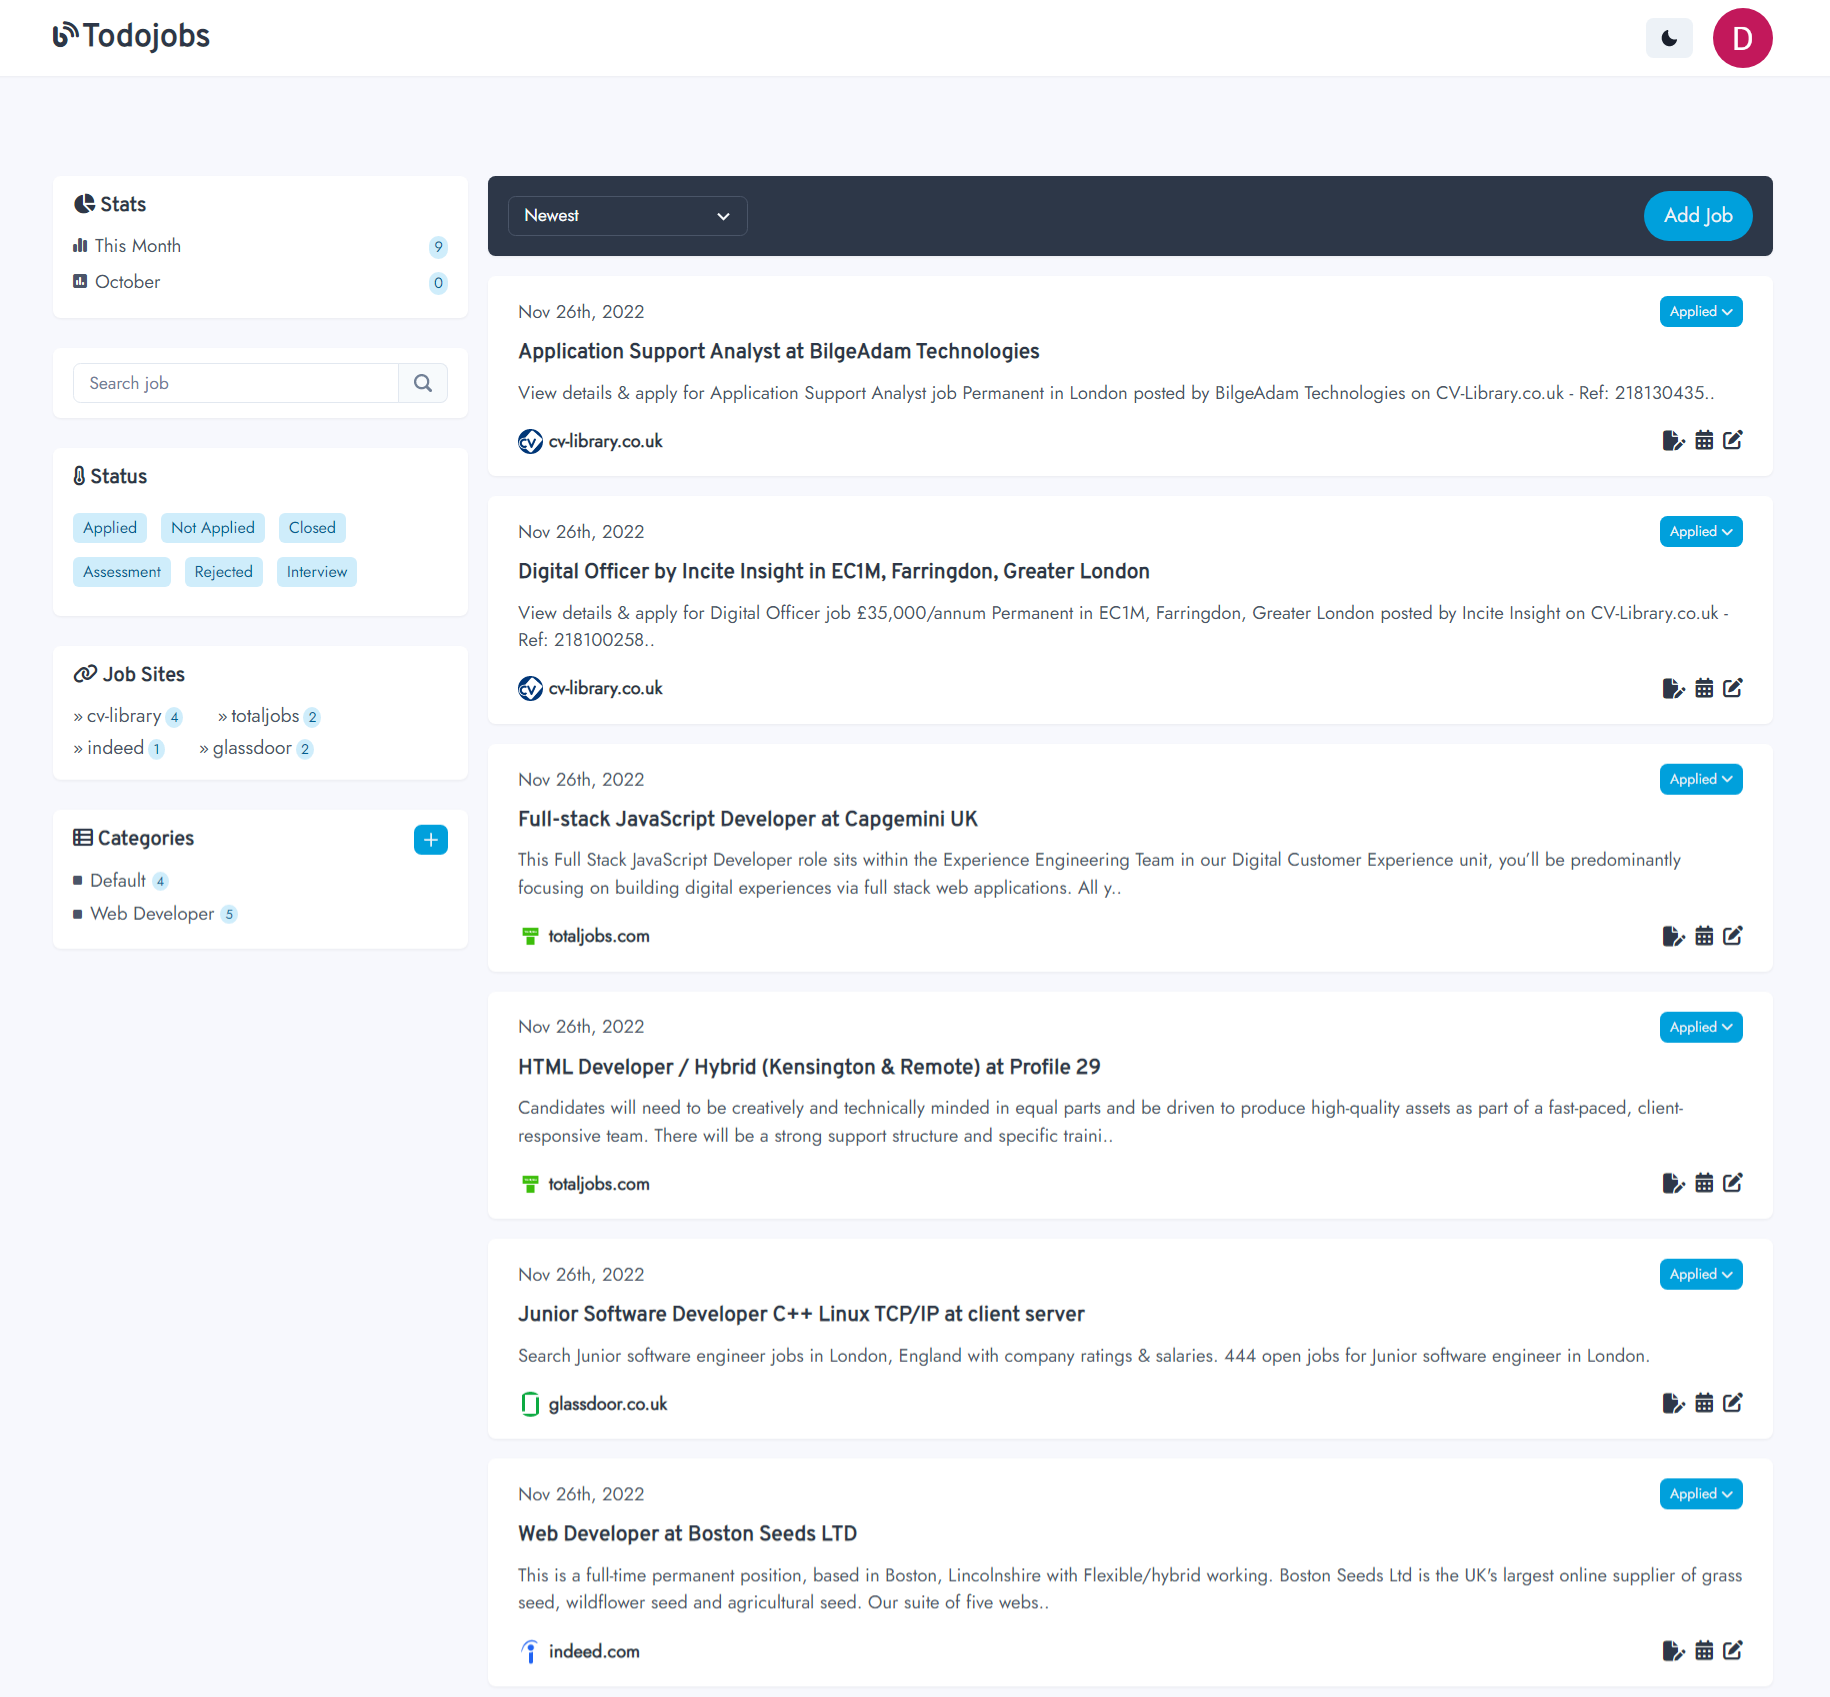
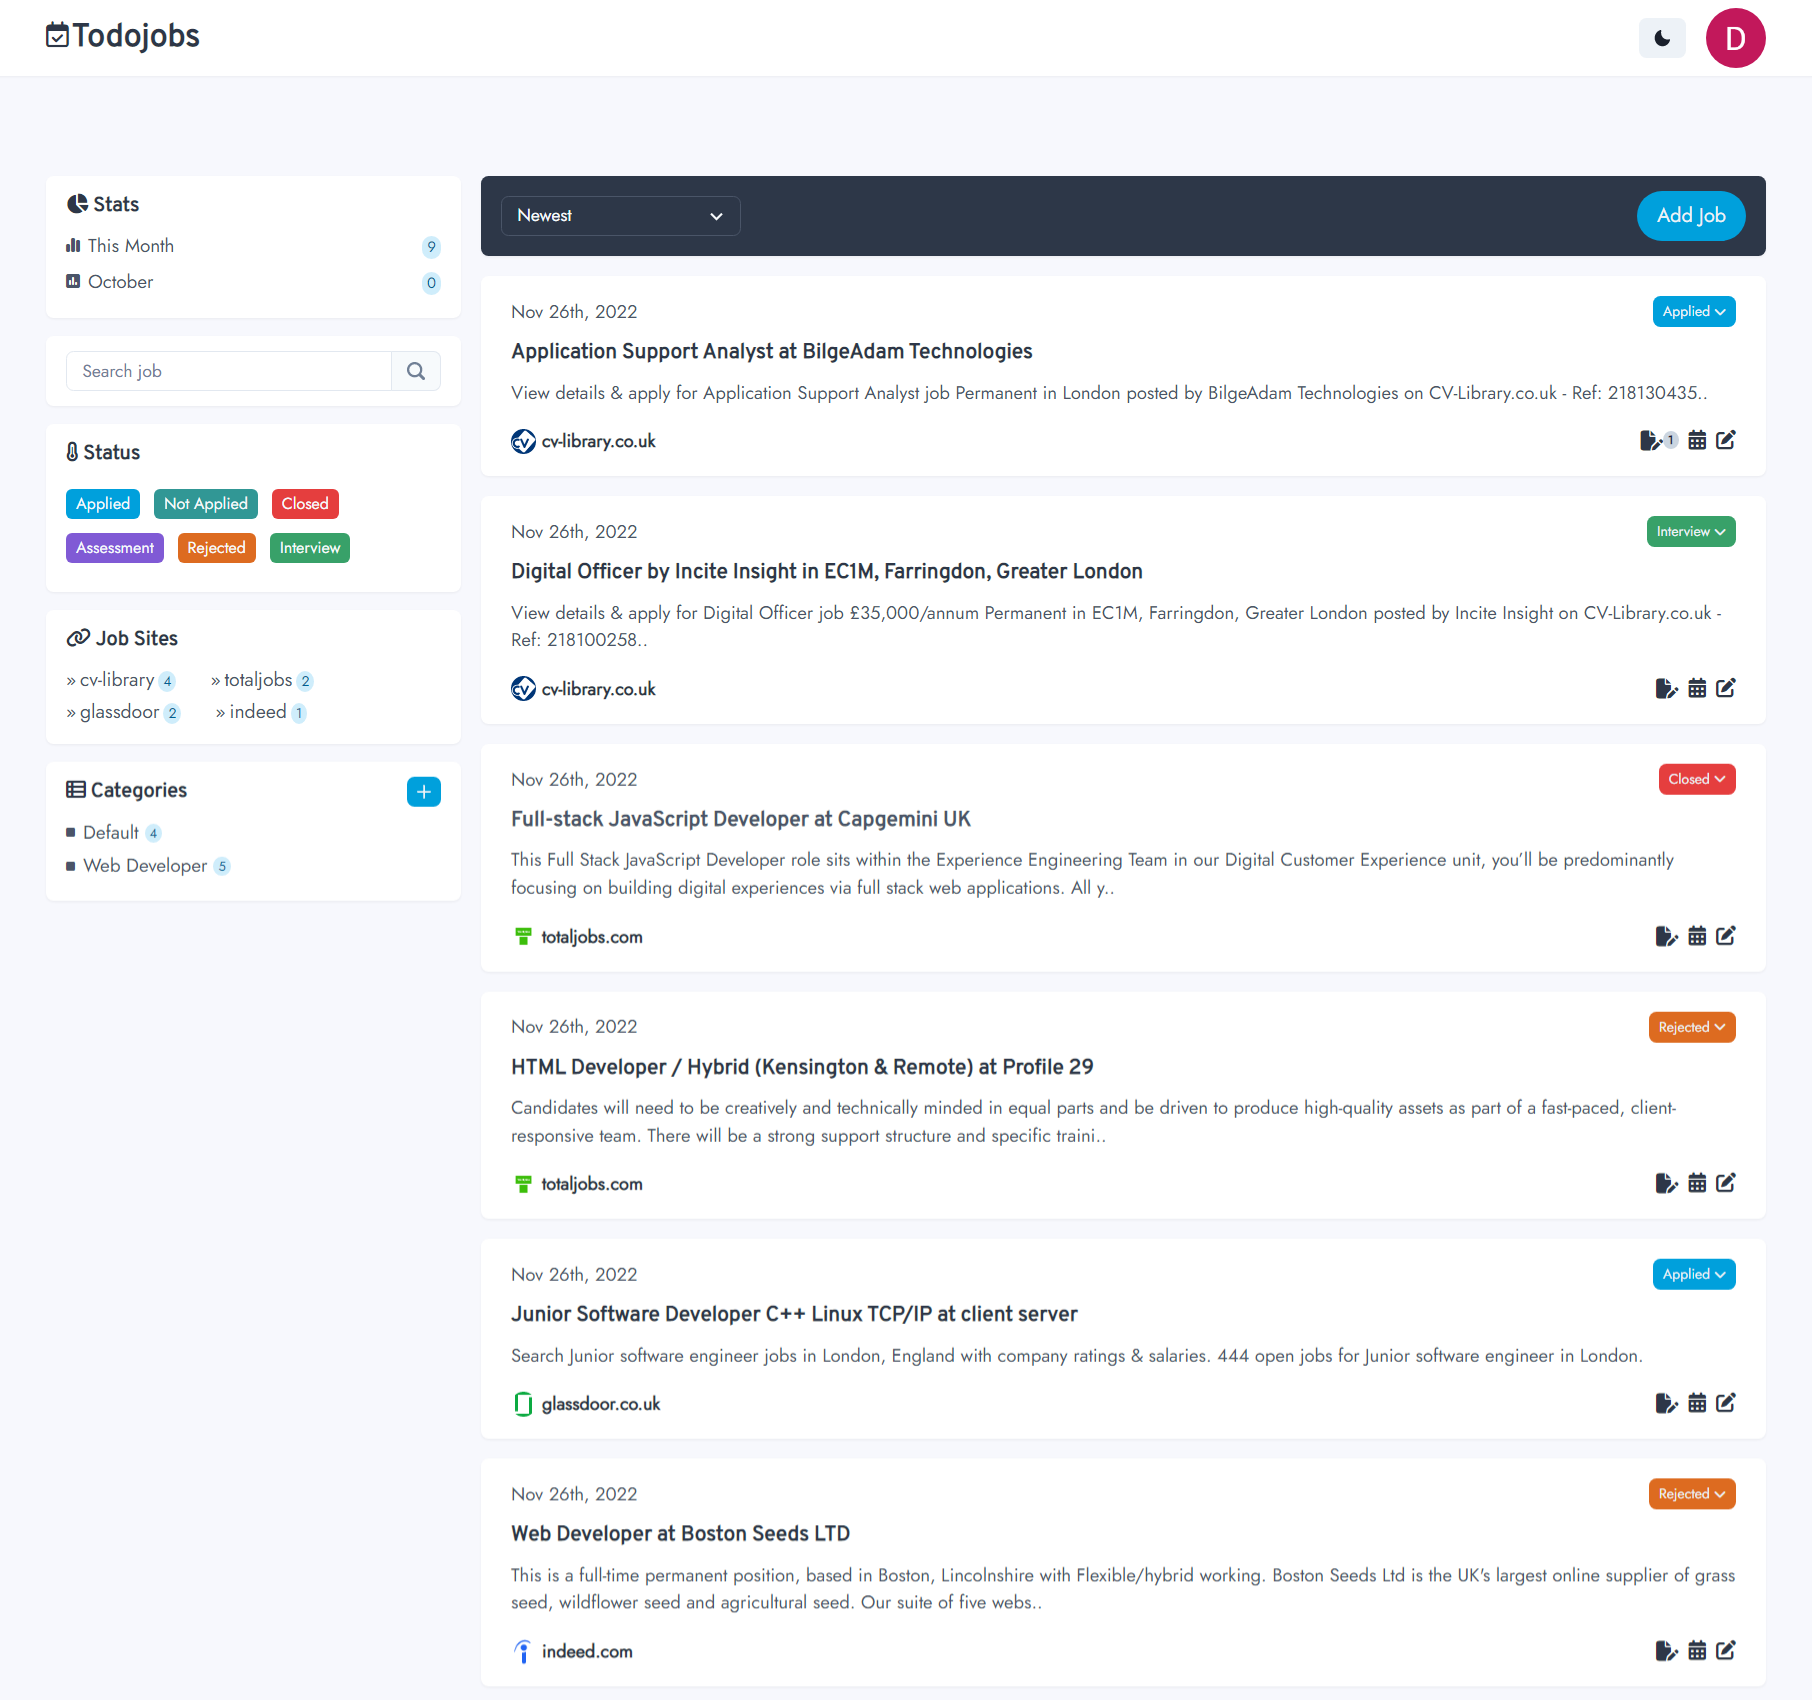
update landing page hero img

diff --git a/client/src/components/Status.tsx b/client/src/components/Status.tsx
@@ -46,10 +46,9 @@ const Status = ({ status, setStatus }: any) => {
                 mb='0.7rem'
                 fontSize='0.8rem'
                 fontWeight='400'
+                borderColor={colors[color]}
                 bg={colors[color]}
-                // bg={status === color ? colors[color] : '#cfedfb'}
                 color={'gray.50'}
-                // color={status === color ? 'gray.50' : 'linkedin.800'}
                 _focus={{
                   outline: 0,
                   boxShadow: 0,
@@ -57,14 +56,6 @@ const Status = ({ status, setStatus }: any) => {
                 _hover={{
                   bg: colors_hover[color],
                   color: 'gray.50',
-                }}
-                _dark={{
-                  bg: status === color ? colors[color] : '#9bdaf329',
-                  color: status === color ? 'gray.50' : 'linkedin.200',
-                  _hover: {
-                    bg: colors_hover[color],
-                    color: 'gray.50',
-                  },
                 }}
                 size='xs'
                 textTransform='capitalize'
